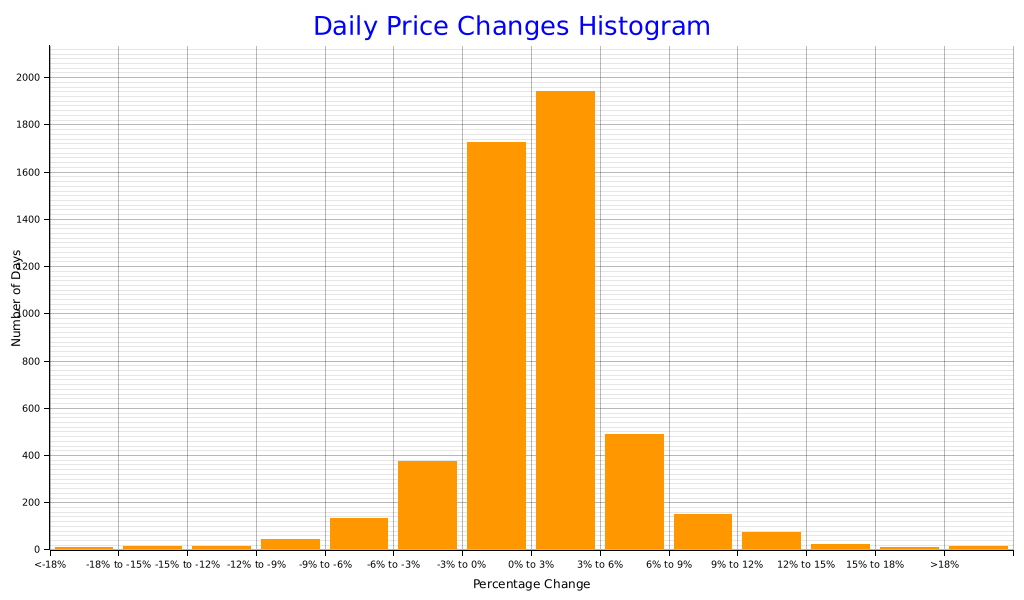
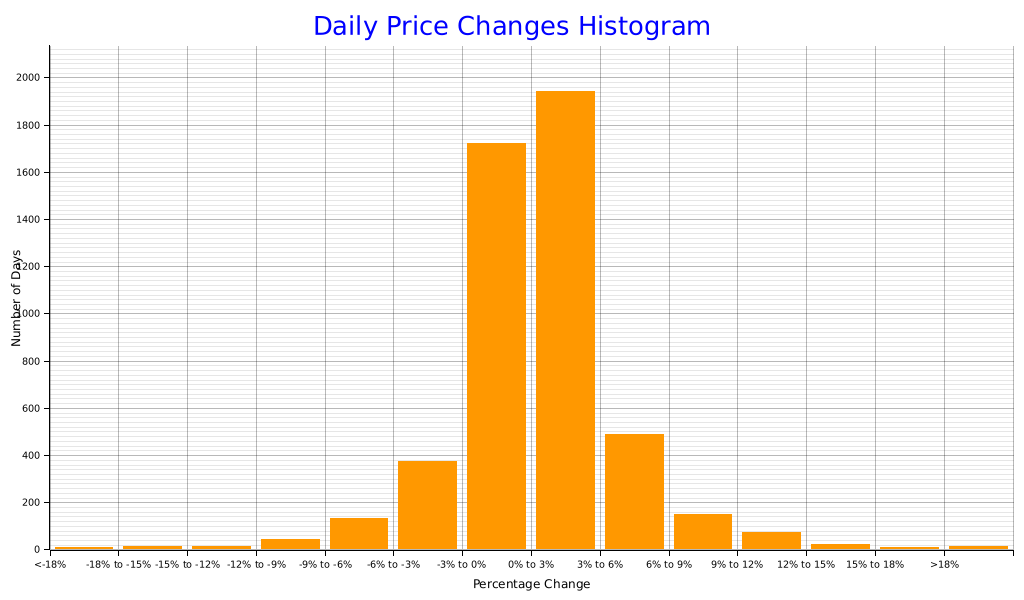
deploy: 9e9e5e69465e6e2aed0a6f6c9422689534c87eb3

diff --git a/index.html b/index.html
@@ -34,7 +34,7 @@
           <td>124,457.11</td>
           <td>74,436.67</td>
           <td></td>
-          <td>11,830,096,297,984.0</td>
+          <td>11,830,249,390,080.0</td>
         </tr>
         <tr>
           <td class='yearly-summary-year'>2024</td>
@@ -186,11 +186,11 @@
         </tr>
         <tr>
           <td>-3% to 0%</td>
-          <td>1724</td>
+          <td>1723</td>
         </tr>
         <tr>
           <td>0% to 3%</td>
-          <td>1940</td>
+          <td>1941</td>
         </tr>
         <tr>
           <td>3% to 6%</td>
@@ -227,7 +227,7 @@
     <br><br>
     <a href='https://github.com/bitcoin-tools/btracker'>Link to the report codebase</a>
     <br><br>
-    This report was last updated at 2025-08-28 02:56:23.504442578 UTC.
+    This report was last updated at 2025-08-28 03:37:06.925346320 UTC.
     <br><br>
     <div class='scrollable-table'>
       <table>
@@ -249,14 +249,14 @@
           <tr>
             <td>2025-08-28</td>
             <td>111,261.36</td>
-            <td>111,676.96</td>
+            <td>111,931.24</td>
             <td>110,930.03</td>
-            <td>111,528.80</td>
-            <td class='wma-column'>51,889.64</td>
-            <td>37.89 (0.07 %)</td>
-            <td>53,046.41 (90.7 %)</td>
-            <td>746.92 (0.6 %)</td>
-            <td>-273.85 (0.2 %)</td>
+            <td>111,916.29</td>
+            <td class='wma-column'>51,889.92</td>
+            <td>38.17 (0.07 %)</td>
+            <td>53,433.91 (91.3 %)</td>
+            <td>1,001.21 (0.8 %)</td>
+            <td>113.64 (0.1 %)</td>
           </tr>
           <tr>
             <td>2025-08-26</td>
